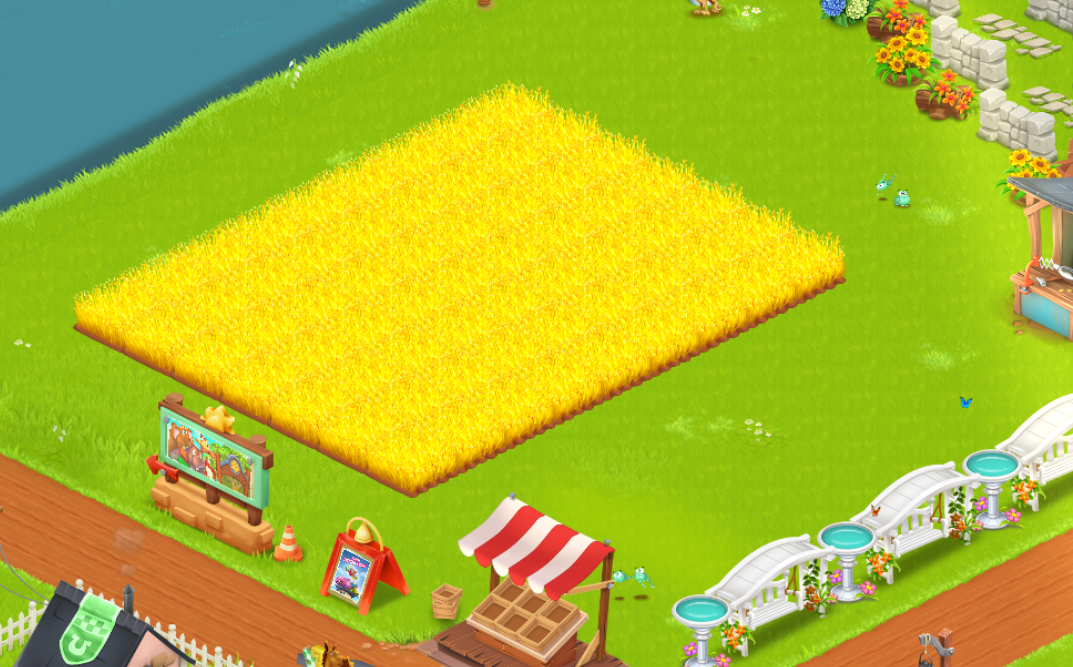
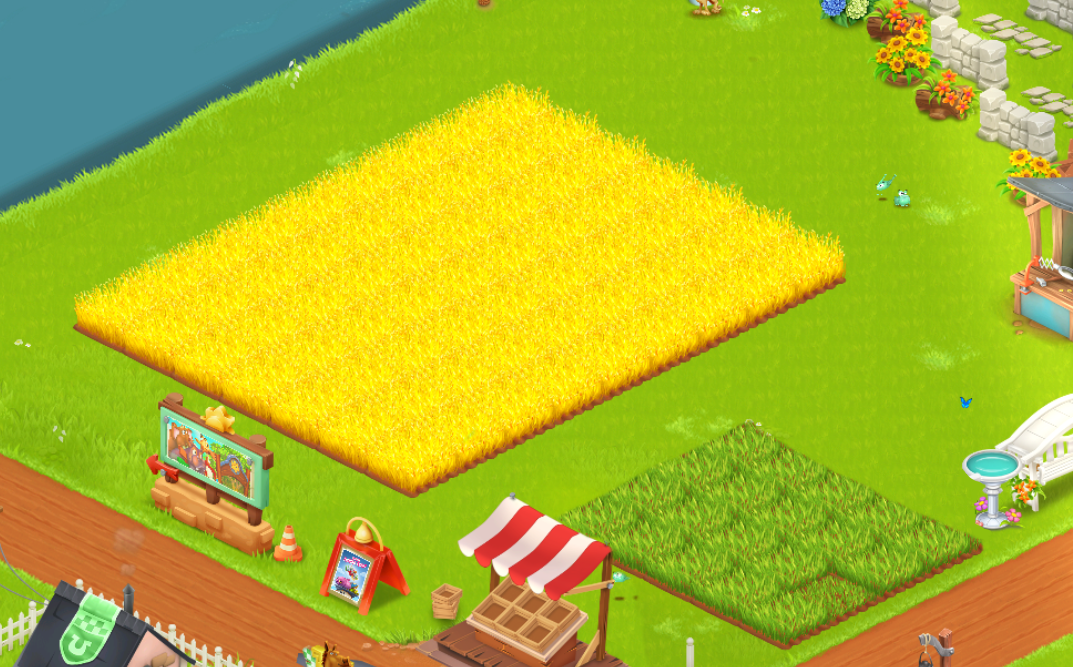
Started implementing selling logic

Changed region(s): [[0.5228, 0.6297, 0.9226, 1.0]]

diff --git a/main.py b/main.py
@@ -14,9 +14,13 @@ pa.PAUSE = 0
 FIELD_MATCHING_THRESHOLD = 0.7
 HARVEST_MATCHING_THRESHOLD = 0.8
 WHEAT_MATCHING_THRESHOLD = 0.3
+WHEAT_GROWING_MATCHING_THRESHOLD = 0.7
 BOAT_MATCHING_THRESHOLD = 0.7
 MARKET_MATCHING_THRESHOLD = 0.5
+SOLD_MATCHING_THRESHOLD = 0.6
+NEW_OFFER_MATCHING_THRESHOLD = 0.9
 SILO_MATCHING_THRESHOLD = 0.9
+CLOSE_MATCHING_THRESHOLD = 0.4
 
 BOAT_ANCHOR = (1075, 285)
 MARKET_ANCHOR = (825, 1150)
@@ -29,13 +33,22 @@ screen_dim = {
     'height': 1080
 }
 plant_img = cv2.imread('templates/plants/wheat.png', cv2.IMREAD_UNCHANGED)
+plant_growing_img = cv2.imread('templates/plants/wheat_growing.png', cv2.IMREAD_UNCHANGED)
 planting_interface_img = cv2.imread('templates/interface/planting_wheat.png', cv2.IMREAD_UNCHANGED)
 field_img = cv2.imread('templates/environment/field.png', cv2.IMREAD_UNCHANGED)
 harvesting_interface_img = cv2.imread('templates/interface/harvest_scythe.png', cv2.IMREAD_UNCHANGED)
 boat_img = cv2.imread('templates/environment/boat.png', cv2.IMREAD_UNCHANGED)
 market_img = cv2.imread('templates/environment/market.png', cv2.IMREAD_UNCHANGED)
+sold_img = cv2.imread('templates/interface/sold.png', cv2.IMREAD_UNCHANGED)
+new_offer_img = cv2.imread('templates/interface/new_offer.png', cv2.IMREAD_UNCHANGED)
 silo_img = cv2.imread('templates/interface/silo.png', cv2.IMREAD_UNCHANGED)
+close_img = cv2.imread('templates/interface/close.png', cv2.IMREAD_UNCHANGED)
 
+
+
+silo_is_full = False
+harvested_plants = False
+planted_crops = 0
 
 def get_target():
     return np.array(sct.grab(screen_dim))
@@ -61,6 +74,10 @@ def get_camera_pos():
 
 def check_fields_are_empty(target):
     return m.match_template_exists(field_img, target, FIELD_MATCHING_THRESHOLD)
+
+
+def check_plants_are_growing(target):
+    return m.match_template_exists(plant_growing_img, target, WHEAT_GROWING_MATCHING_THRESHOLD)
 
 
 def check_silo_is_full(target):
@@ -102,6 +119,10 @@ def translate_path(path, translation):
 
 
 def plant_crops(target):
+    if m.match_template_exists(plant_img, target, WHEAT_MATCHING_THRESHOLD):
+        print("Found already grown plants. Harvesting them first...")
+        return
+
     cx1, cy1 = get_camera_pos()
     empty_fields = m.match_template(field_img, target, FIELD_MATCHING_THRESHOLD)
     if len(empty_fields) == 0:
@@ -128,6 +149,10 @@ def plant_crops(target):
 
 
 def harvest_plants(target):
+    if check_plants_are_growing(target):
+        print("Found some plants, that are not fully grown. Waiting...")
+        return
+
     cx1, cy1 = get_camera_pos()
     grown_plants = m.match_template(plant_img, target, WHEAT_MATCHING_THRESHOLD)
     if len(grown_plants) == 0:
@@ -151,6 +176,36 @@ def harvest_plants(target):
 
     drag_start = (harvesting_interface[0][0], harvesting_interface[0][1])
     drag_operation(drag_start, path)
+
+    global harvested_plants
+    harvested_plants = True
+
+
+def sell_items(target):
+    print("Selling items...")
+    # Open market
+    market = m.match_template(market_img, target, MARKET_MATCHING_THRESHOLD)
+    if len(market) == 0:
+        print("Market not found...")
+        return
+    sleep(0.2)
+    pa.click(market[0][0], market[0][1])
+    sleep(1.0)
+
+    # Collect coins
+    sold = m.match_template(sold_img, target, SOLD_MATCHING_THRESHOLD)
+    print(len(sold))
+    for s in sold:
+        sleep(0.2)
+        pa.click(s[0], s[1])
+
+
+def check_unexpected_behaviour(target):
+    close = m.match_template(close_img, target, CLOSE_MATCHING_THRESHOLD)
+    if len(close) > 0:
+        print("Detected unexpected behaviour. Closing window...")
+        sleep(0.2)
+        pa.click(close[0][0], close[0][1])
 
 
 # Start of Program
@@ -177,21 +232,35 @@ while True:
     if len(empty_fields) > 0:
         print("Found %d empty fields... starting planting" % (len(empty_fields)))
         plant_crops(screen)
+        planted_crops += len(empty_fields)
 
     grown_plants = m.match_template(plant_img, screen, WHEAT_MATCHING_THRESHOLD)
-    if len(grown_plants) > 0:
-        print("Found %d grown plants, starting harvesting..." % (len(grown_plants)))
-        harvest_plants(screen)
-    else:
-        print("No grown plants found, waiting for growing...")
-        sleep(30)
+    if not silo_is_full:
+        if len(grown_plants) > 0:
+            print("Found %d grown plants, starting harvesting..." % (len(grown_plants)))
+            harvest_plants(screen)
+        else:
+            print("No grown plants found, waiting for growing...")
+            for i in range(30):
+                if keyboard.is_pressed('q'): break
+                sleep(1.0)
 
     if check_silo_is_full(screen):
-        print("Silo is full. TODO: sell items")
+        print("Silo is full detected")
+        silo_is_full = True
         break
 
-    sleep(1.0)
+    if harvested_plants:
+        sell_items(screen)
+
+    harvested_plants = False
+
+    check_unexpected_behaviour(screen)
+
+    sleep(3.0)
     if keyboard.is_pressed('q'):
         print("Stopping...")
-        # TODO: print stats
+        print()
+        print("========= Stats =========")
+        print("Crops planted:", planted_crops)
         break

diff --git a/test-environments/market_interface.py b/test-environments/market_interface.py
@@ -1,14 +1,24 @@
 import cv2
+import numpy as np
+import mss
 from matcher import Matcher
 
-interface_img = cv2.imread('market_interface.png', cv2.IMREAD_UNCHANGED)
+sct = mss.mss()
+
+#interface_img = cv2.imread('market_interface.png', cv2.IMREAD_UNCHANGED)
+interface_img = np.array(sct.grab({
+    'left': 0,
+    'top': 0,
+    'width': 1920,
+    'height': 1080
+}))
 sold_img = cv2.imread('../templates/interface/sold.png', cv2.IMREAD_UNCHANGED)
 new_offer_img = cv2.imread('../templates/interface/new_offer.png', cv2.IMREAD_UNCHANGED)
 close_img = cv2.imread('../templates/interface/close.png', cv2.IMREAD_UNCHANGED)
 
 m = Matcher()
 
-sold_matches = m.match_template(sold_img, interface_img, 0.9)
+sold_matches = m.match_template(sold_img, interface_img, 0.6)
 new_offer_matches = m.match_template(new_offer_img, interface_img, 0.9)
 close_matches = m.match_template(close_img, interface_img, 0.4)
 

diff --git a/test-environments/farm.py b/test-environments/farm.py
@@ -3,11 +3,13 @@ from matcher import Matcher
 
 farm_img = cv2.imread('farm.png', cv2.IMREAD_UNCHANGED)
 plant_img = cv2.imread('../templates/plants/wheat.png', cv2.IMREAD_UNCHANGED)
+plant_growing_img = cv2.imread('../templates/plants/wheat_growing.png', cv2.IMREAD_UNCHANGED)
 field_img = cv2.imread('../templates/environment/field.png', cv2.IMREAD_UNCHANGED)
 
 m = Matcher()
 
 plant_matches = m.match_template(plant_img, farm_img, 0.3)
+plant_growing_matches = m.match_template(plant_growing_img, farm_img, 0.7)
 field_matches = m.match_template(field_img, farm_img)
 
 boundary = m.matchs_to_boundary(plant_matches)
@@ -16,6 +18,7 @@ m.mark_boundary(boundary, farm_img)
 m.mark_path(path, farm_img)
 
 m.mark_matches(plant_matches, farm_img, (255, 0, 0))
+m.mark_matches(plant_growing_matches, farm_img, (255, 0, 0))
 m.mark_matches(field_matches, farm_img, (255, 255, 0))
 
 

diff --git a/matcher.py b/matcher.py
@@ -28,6 +28,8 @@ class Matcher:
 
     def match_template_exists(self, template, target, matching_threshold=0.45):
         result = cv2.matchTemplate(target, template, cv2.TM_CCOEFF_NORMED)
+        if len(result) == 0:
+            return False
         _, max_val, _, max_loc = cv2.minMaxLoc(result)
         return max_val > matching_threshold
 

diff --git a/README.md b/README.md
@@ -8,4 +8,5 @@ Install the following packages:
 ```
 pip install numpy
 pip install opencv-python
+pip install customtkinter
 ```
